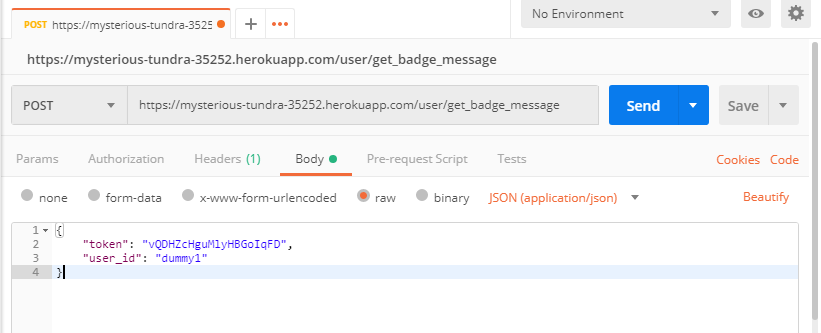
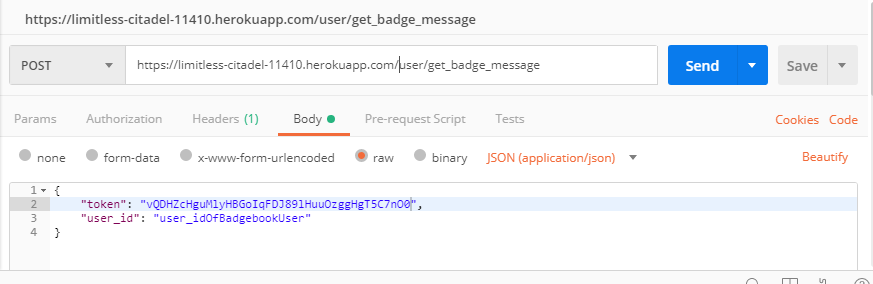
Added images to read me for API

diff --git a/README.md b/README.md
@@ -12,3 +12,6 @@ localhost:3000/newuser  to register yourself in the database.
 If success, it will take you to localhost:3000/userlist and you should be able to see yourself on there.
 
 Make sure to restart Node anytime a change is made in the javascript. No need for Jade, just refresh the page.
+
+# Running the API with Postman
+![postman](https://github.com/TheAlcoholicChicken/TicTacToeApp/blob/master/images/postmanapi.PNG?raw=true)
